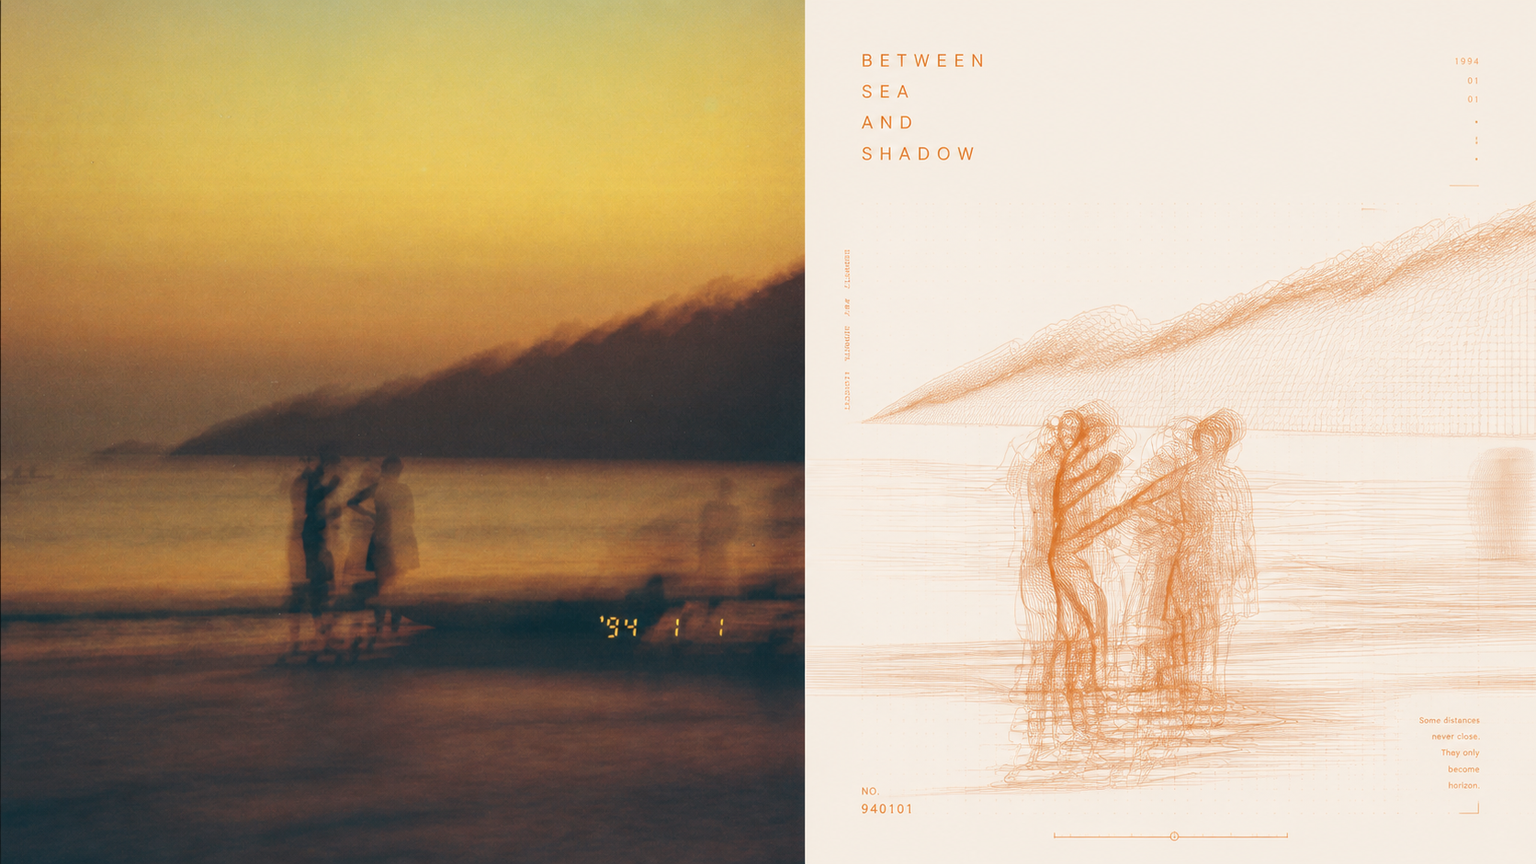
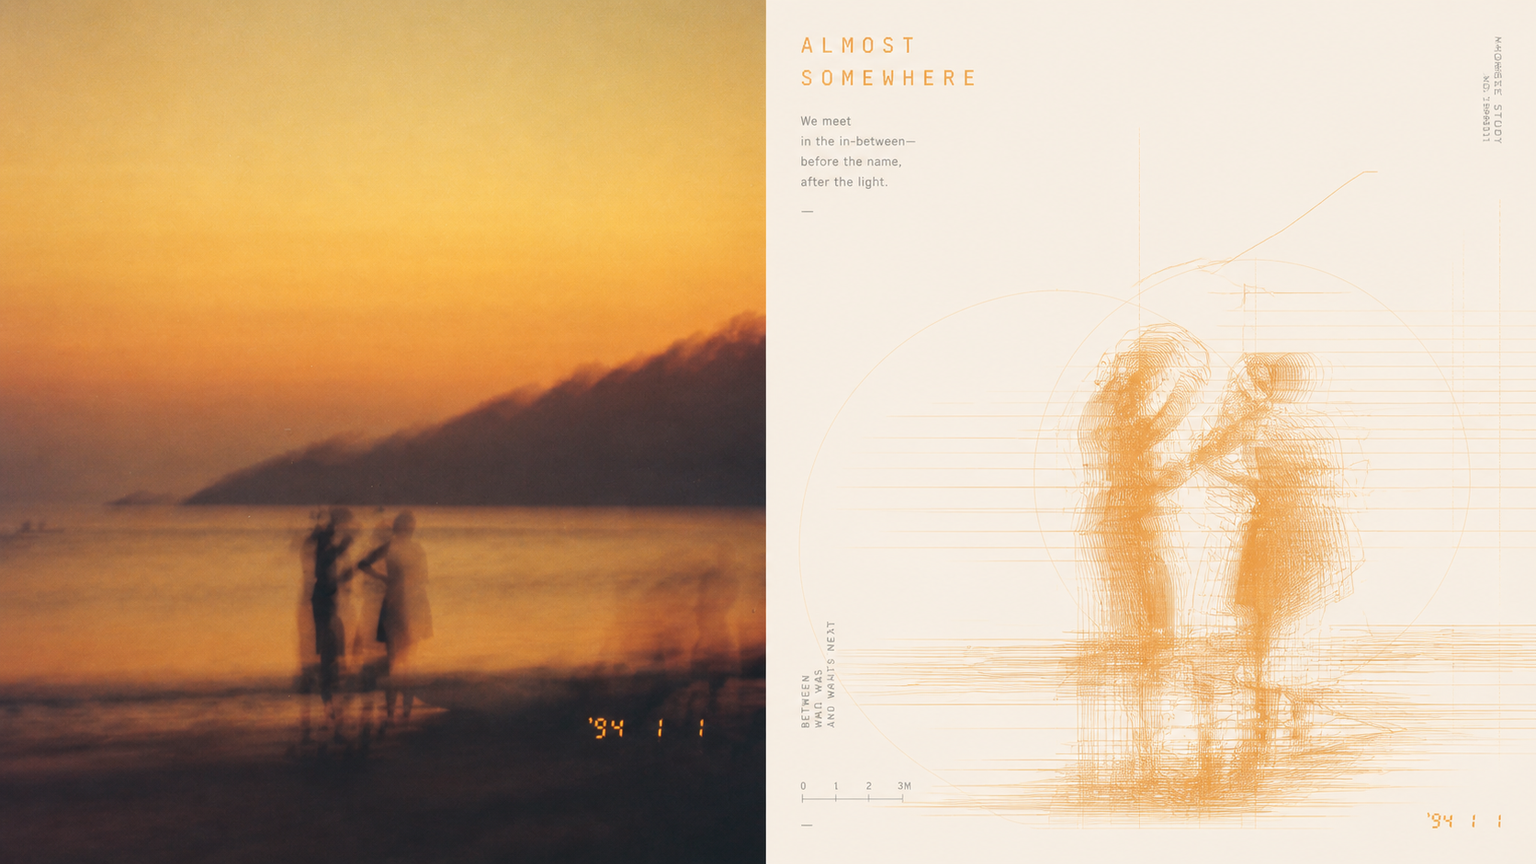
docs: add four 16:9 left-right samples

diff --git a/README.en.md b/README.en.md
@@ -16,6 +16,28 @@
 
 </div>
 
+<!-- xxd-human-intro:start -->
+## The short, honest version
+
+Ever had a photo you loved turn into generic “AI design”? The subject survives, but the relationship, mood, and tiny details that made the photo yours disappear.
+
+That frustration is why I made **Panel 012**. It does not press a template onto your image. It first works out what must not be lost, then translates it into **Make the subject emerge from a vital-colour geometric line field**.
+
+### Understand it in 30 seconds
+
+- **Give it:** one photo, a folder of images, or a rough idea.
+- **It does:** preserves recognizable people, objects, actions, and relationships, then redesigns them in this Panel’s own visual language.
+- **You get:** ready-to-use PNGs—comparison layouts, design-only artwork, multiple ratios, or a wallpaper set.
+
+### The easiest way to try it
+
+You do not need to study every option first. Give your Agent an image and say:
+
+> Use XXD Panel 012 on this image and recommend the best layout and size first.
+
+Check the samples below if you want to feel out the aesthetic. If you are ready, jump to [Get started](#get-started). The full modes, sizes, and parameters are tucked into an expandable reference for later.
+<!-- xxd-human-intro:end -->
+
 ## Samples · From X
 
 <table>
@@ -25,6 +47,11 @@
   </tr>
   <tr>
     <td colspan="2"><img src="./assets/examples/sample-05.png" alt="XXD Panel 012 Sample 5"></td>
+  </tr>
+  <tr>
+    <td width="33%"><img src="./assets/examples/sample-06.png" alt="XXD Panel 012 Sample 6"></td>
+    <td width="33%"><img src="./assets/examples/sample-07.png" alt="XXD Panel 012 Sample 7"></td>
+    <td width="33%"><img src="./assets/examples/sample-08.png" alt="XXD Panel 012 Sample 8"></td>
   </tr>
 </table>
 
@@ -81,6 +108,9 @@ If an unrelated photograph could replace the source without materially changing 
 - **One vitality colour:** choose by the subject's spirit rather than the largest colour patch; modest purification is allowed, but the colour remains traceable to the source.
 - **Clean pale ground and one focus:** generous whitespace and flat print depth, with no dirt, gradient, glow, or 3D.
 - **Rational microtype:** one short title and a few state words, indexes, scale marks, or notes align precisely to geometry, contour, and density boundaries.
+
+<details>
+<summary><strong>Full capabilities and parameters (open when needed)</strong></summary>
 
 ## The original brief is authoritative
 
@@ -223,6 +253,8 @@ GPT Image 2 is the default first choice. It keeps this project's established wor
 Seedance 5.0 Pro, Nano Banana Pro (Gemini Image Pro), Nano Banana 2 (Gemini Image Flash), or another compatible bitmap model may also be used when it is actually available through the current tools or configured routes and can satisfy source fidelity, whole-canvas ratio, target-language text, and linked-wallpaper multi-reference requirements. An alternative changes only the generation route; it must not change modes, canvas, copy, locale, wallpaper relationship, or the complete-canvas-first strategy.
 
 If no suitable route is available, the Skill asks the user to enable an image-generation tool or provide an API key. User-provided credentials may be used for the current task without being echoed, displayed, logged, or exposed. They are not persisted, and provider, account, billing, or global route configuration is not modified, unless the user explicitly requests that configuration change.
+
+</details>
 
 ## Get started
 

diff --git a/assets/examples/README.md b/assets/examples/README.md
@@ -9,5 +9,8 @@
   - `sample-01.jpg`
   - `sample-02.jpg`
   - `sample-05.png` — generated 16:9 left-right English-copy sample from the Chenxiang poster batch
+  - `sample-06.png` — generated 16:9 left-right English-copy sample from the Chenxiang poster batch
+  - `sample-07.png` — generated 16:9 left-right English-copy sample from the Chenxiang poster batch
+  - `sample-08.png` — generated 16:9 left-right English-copy sample from the Chenxiang poster batch
 
 The repository READMEs display these local copies; the original four samples link back to their X post, while sample-05 is a newly generated batch sample. The samples demonstrate the style's aesthetic motive and range only; they never become generation references, source material, fixed subjects, palettes, composition, copy, or default canvas sizes.
